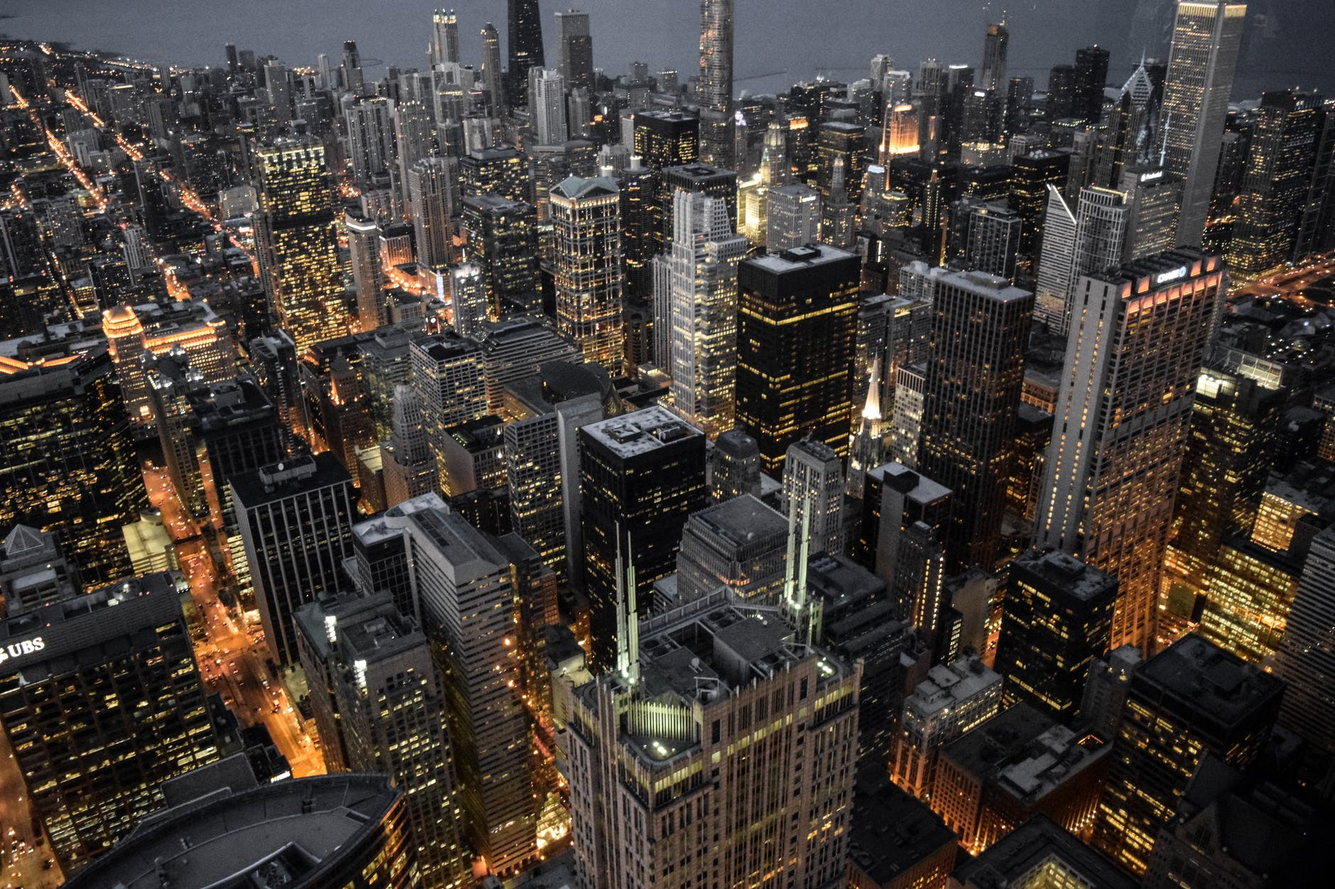
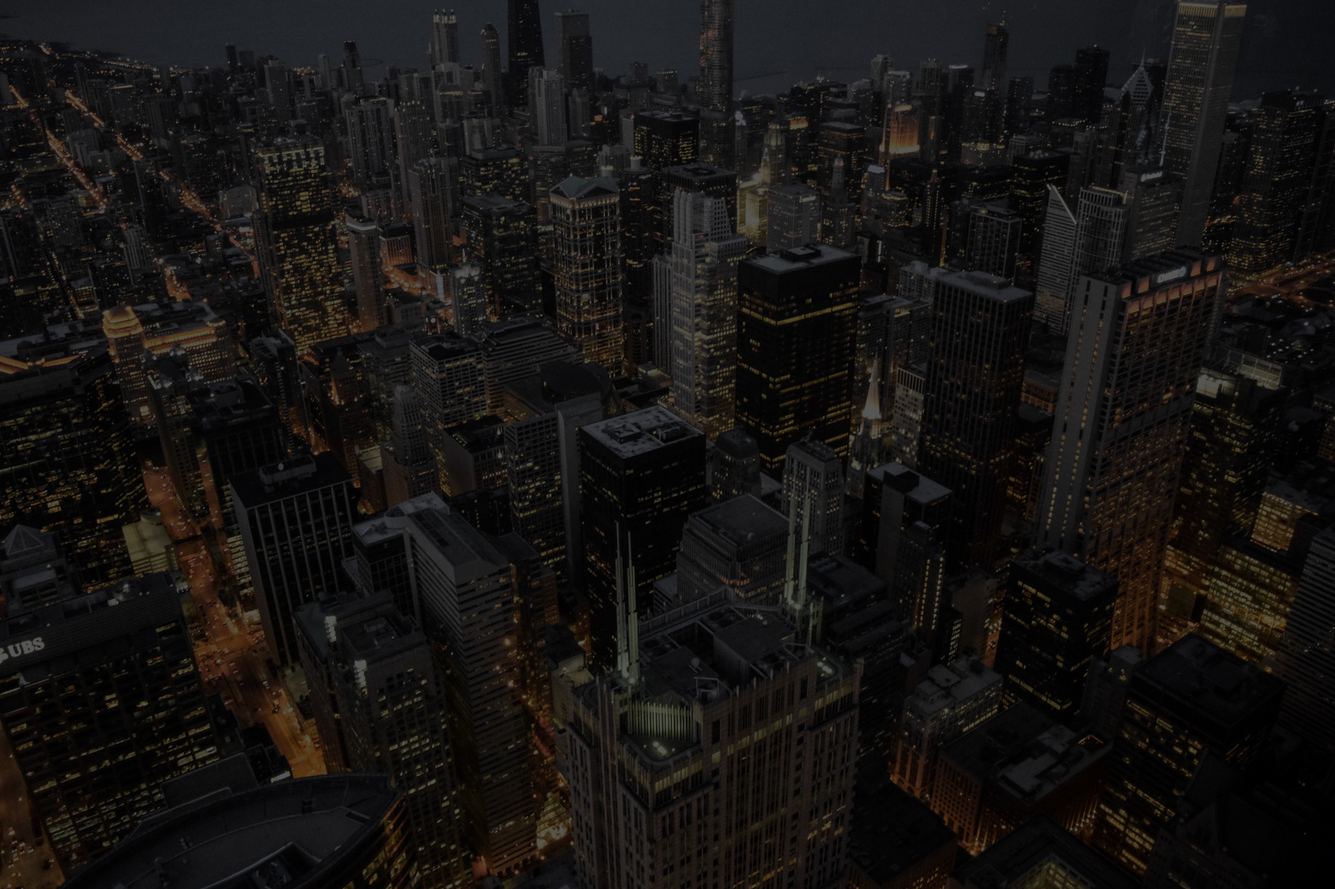
Finish Contact Us

diff --git a/index.html b/index.html
@@ -235,48 +235,55 @@
 
 <!-- Contact Us Section start -->
 <section id="contact-us">
-    
-    <section id="contact-us-form">
-        <form action="/#wpcf7-f1234-o1" method="post" class="wpcf7-form" novalidate="novalidate">
-            <label for="fullname">Your Name(required)</label>
-            <input type="text" name="fullname"> <br>
+        <div class="row">
+            <div class="col-sm col-6">
+                <div class="container">
+                    <div class="row">
+                        <div class="col-sm">
+                            <section id="contact-us-form">
+                                <h1 class="display-4">CONTACT US</h1>
+                                <form action="/#wpcf7-f1234-o1" method="post" class="wpcf7-form" novalidate="novalidate">
+                                    <label for="fullname">Your Name(required)</label> <br>
+                                    <input type="text" name="fullname"> <br>
+                        
+                                    <label for="email">Your Email(required)</label><br>
+                                    <input type="email" name="email"> <br>
+                        
+                                    <label for="subject">Subject</label><br>
+                                    <input type="text" name="subject"> <br>
+                        
+                                    <label for="message">Your Message</label><br>
+                                    <textarea name="message" rows="5"></textarea> <br> <br>
 
-            <label for="email">Your Email(required)</label>
-            <input type="email" name="email"> <br>
-
-            <label for="subject">Subject</label>
-            <input type="text" name="subject"> <br>
-
-            <label for="message">Your Message</label>
-            <textarea name="message" rows="3"></textarea> <br>
-            
-            <input type="submit" value="SEND">
-        </form>
-    </section>
-    
-    <section id="contact-us-details">
-        <div>
-            <i class="fas fa-phone fa-4x"></i>
-            +63 (052) 735 201
+                                    <input type="submit" value="SEND" class="btn btn-block btn-lg btn-success">
+                                </form>
+                            </section>     
+                        </div>
+                        <div class="col-sm">
+                            <section id="contact-us-details">
+                                <div>
+                                    <i class="fas fa-phone fa-2x"></i>
+                                    +63 (052) 735 201
+                                </div>
+                                <div>
+                                    <i class="fas fa-envelope fa-2x"></i>
+                                    info@pacificblueit.com
+                                </div>
+                                <div>
+                                    <i class="fas fa-globe-asia fa-2x"></i>
+                                    http://pacificblueit.com/
+                                </div>
+                                <div>
+                                    <i class="fas fa-map-marker-alt fa-2x"></i>
+                                    Block 7, Puro, Legazpi City, Albay
+                                </div>
+                            </section>
+                        </div>
+                    </div>           
+                </div>
+            </div>
+            <div class="col-sm col-6" id="google-map"> </div>
         </div>
-        <div>
-            <i class="fas fa-envelope fa-4x"></i>
-            info@pacificblueit.com
-        </div>
-        <div>
-            <i class="fas fa-globe-asia fa-4x"></i>
-            http://pacificblueit.com/
-        </div>
-        <div>
-            <i class="fas fa-map-marker-alt fa-4x"></i>
-            Block 7, Puro, Legazpi City, Albay
-        </div>
-        
-    </section>
-
-    <section id="google-map">
-
-    </section>
 </section>
 <!-- Contact Us Section   end -->
 

diff --git a/css/style.css b/css/style.css
@@ -97,3 +97,60 @@
     text-align: right;
 }
 
+#contact-us {
+    min-height: 100vh;
+    background-color: #3e5372;
+    color: #fff;
+    background-image: url("../images/buildings.jpeg");
+    background-size:50% 100vh;
+    background-repeat: no-repeat;
+    overflow: hidden;
+}
+
+#contact-us-form form label {
+    font-size: 1.5rem;
+    font-weight: 100;
+}
+
+#contact-us-form input[type=text],input[type=email] { 
+    width: 100%;
+    margin: 20px 0;
+    background-color: transparent;
+    height: 50px;
+    color:white;
+    border: 1px solid #fff;
+    font-size: 1.5rem;
+    padding: 10px;
+}
+
+#contact-us-form textarea {
+    width: 100%;
+    background-color: transparent;
+    border: 1px solid #fff;
+    color:white;
+    font-size: 1.3rem;
+    padding: 10px;
+}
+
+#contact-us-details {
+    margin-top: 150px;
+    font-size: 1.2rem;
+}
+
+#contact-us-details div {
+    padding: 30px 0;
+    border-bottom: 1px solid #fff;
+}
+
+#contact-us-details div i { 
+    padding-right: 10px;
+}
+
+#google-map {
+    width: 100%;
+    background-image: url("../images/pacific-blue-map.png");
+    height: 100vh;
+    background-repeat: no-repeat;
+    background-size: cover;
+    background-position: center center;
+}
